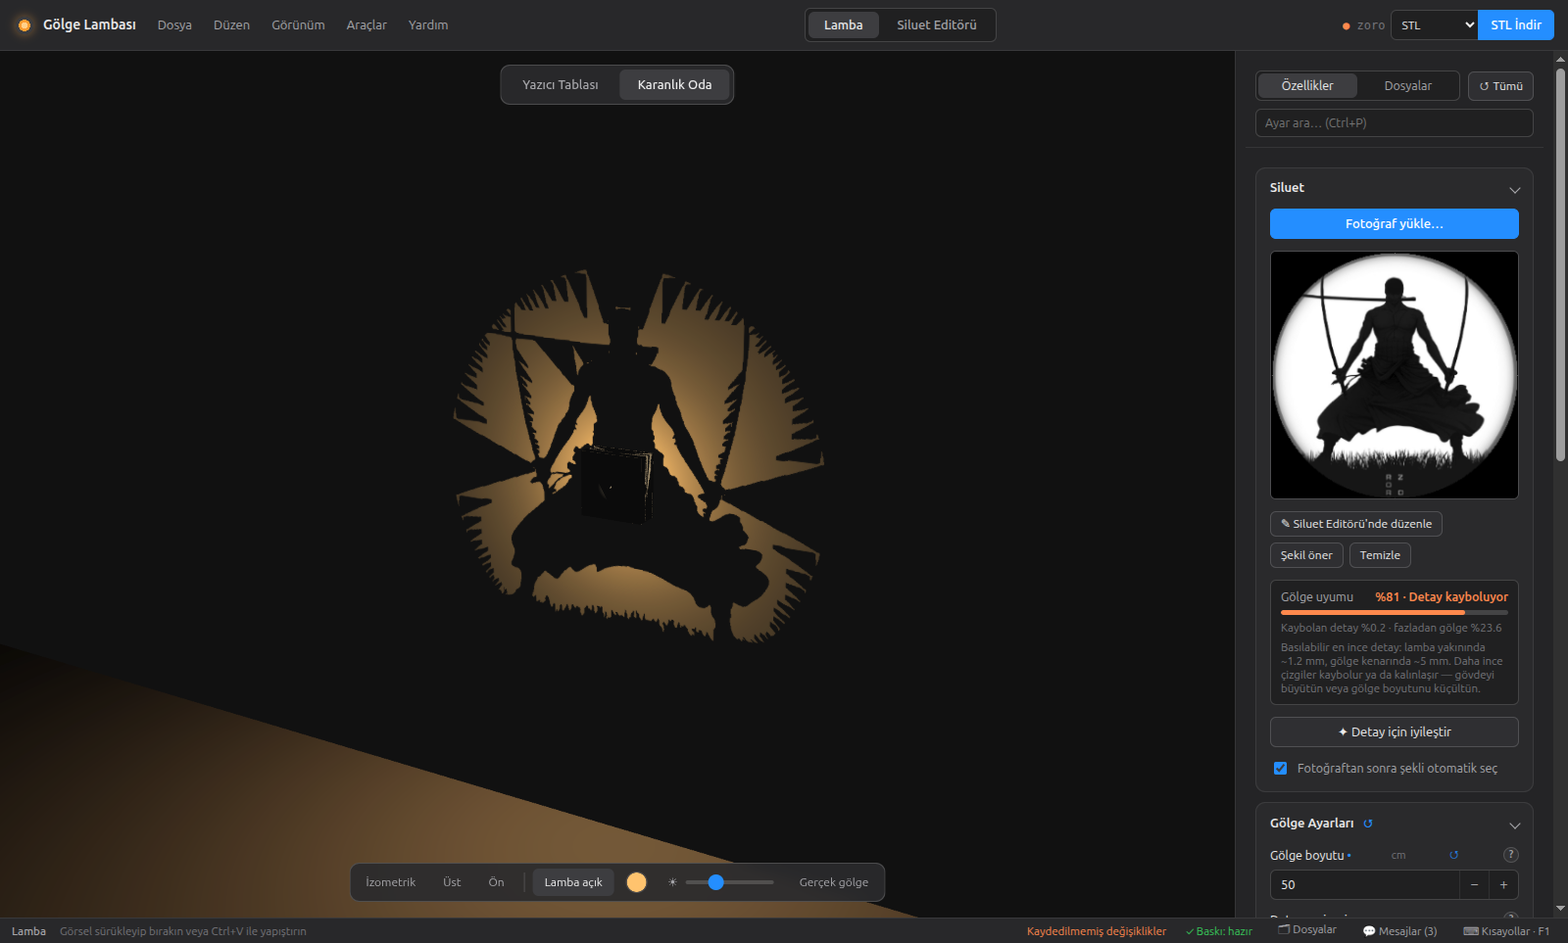
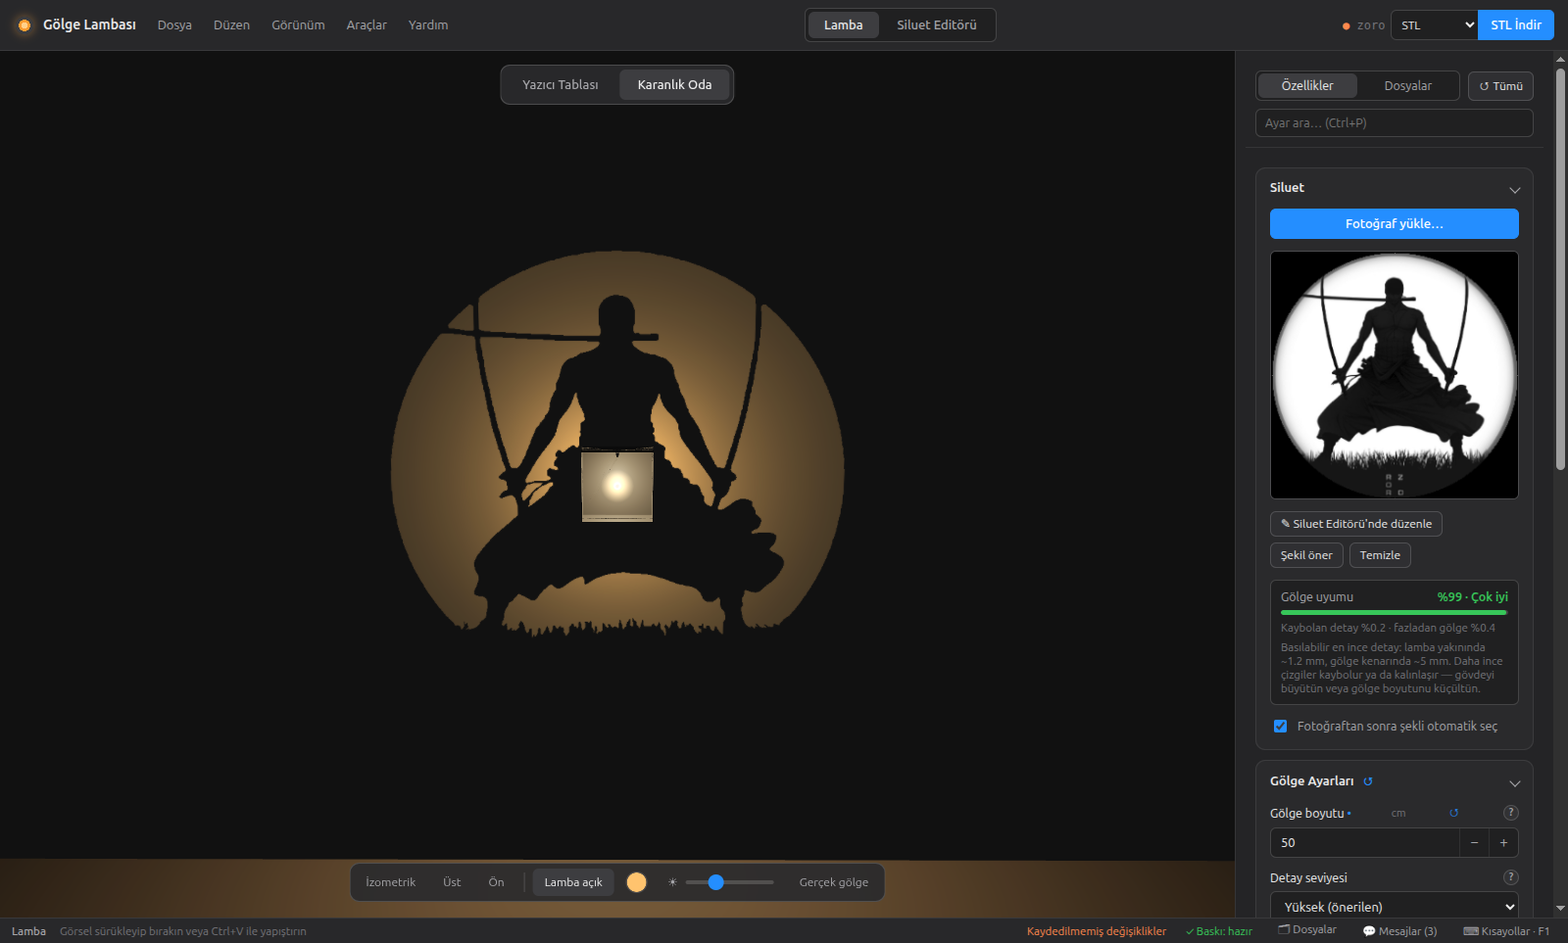
Print with slicer supports by default, hide light parts in previews, expand README
- Desteksiz baskı (support-free roofs) is now off by default: its roofs
  showed as saw teeth on large shadows (sample: 81 % -> 99 % match).
- Dark room never draws the light parts (cap, LED holder, tube), so only
  the printed body and the light show with an open front; on the bed
  they stay hidden unless Montaj parçaları is on.
- README: features, download/install, quick start, printing guide,
  screenshot gallery and troubleshooting; fresh screenshots.
- package.json: repository, homepage and bugs links.

diff --git a/renderer/src/main.js b/renderer/src/main.js
@@ -55,8 +55,8 @@
       { id: 'g-holder', label: 'Tüp tutucu yüksekliği', unit: 'mm', min: 4, max: 30, step: 1, value: 10, showIf: () => mount() === 'tube' },
       { id: 'g-mode', type: 'select', label: 'Baskı şekli', value: 'onepiece', options: [
         ['onepiece', 'Tek parça (gövde + taban dik basılır)'], ['flat', 'Düz paneller (basıp yapıştırılır)']] },
-      { id: 'g-supportfree', type: 'check', label: 'Desteksiz baskı (sarkan yerlerin altına 45° çatı)', value: true, showIf: () => $('g-mode').value === 'onepiece',
-        note: 'Dik basılan gövdede havaya basılacak yatay çıkıntı kalmaz; gölgede çok küçük üçgen dolgular oluşabilir.' },
+      { id: 'g-supportfree', type: 'check', label: 'Desteksiz baskı (sarkan yerlerin altına 45° çatı)', value: false, showIf: () => $('g-mode').value === 'onepiece',
+        note: 'Kapalıyken (varsayılan) gölge siluete birebir uyar; gövdeyi dilimleyicide destek açarak basın, destekler sonra sökülür. Açıkken dik basılan gövdede havaya basılacak yatay çıkıntı kalmaz, ama sarkan yerlerin altına eklenen çatılar duvarda büyür ve gölgenin uzak kenarında testere dişi gibi görünebilir.' },
       { id: 'g-chamfer', type: 'check', label: 'Panel kenarları 45° pahlı (köşeler temiz birleşir)', value: true, showIf: () => $('g-mode').value === 'flat' },
       { id: 'g-layer', type: 'check', label: '0,2 mm destek katmanı (kopuk parçaları köprüsüz tutar)', value: false, showIf: () => $('g-mode').value === 'flat' },
       { id: 'g-thickness', label: 'Duvar kalınlığı', unit: 'mm', min: 0.8, max: 5, step: 0.1, value: 1.6 },

diff --git a/renderer/src/geometry.js b/renderer/src/geometry.js
@@ -300,7 +300,8 @@
     let wallR = 60;           // aydınlanan duvar dokusunun yarı genişliği (cm)
     let floorBelowLamp = -25; // zemin en fazla lambanın altında bu yükseklikte (cm)
     // Montaj parçaları (LED kapağı + tüp tutucu halkası) tablada varsayılan olarak
-    // gizli: ilk açılışta kafa karıştırıyordu. Karanlık odada monte hâli hep görünür.
+    // gizli ("Montaj parçaları" gösterir). Karanlık odada hiç çizilmez: orada
+    // yalnızca basılan gövde ve ışığın kendisi görünür, lambanın önü açık kalır.
     let showLid = false;
     let showDims = true;
     let lightOn = true;
@@ -376,7 +377,7 @@
     function applyVisibility() {
       const capVis = (m) => !m.userData.isCap || showLid;
       bedLamp.children.forEach((m) => { m.visible = capVis(m); });
-      roomLamp.children.forEach((m) => { m.visible = true; });
+      roomLamp.children.forEach((m) => { m.visible = !m.userData.isCap; });
 
       const real = realShadow && lightOn;
       wall.material = real ? wallMatShadow : (lightOn ? wallMatOn : wallMatOff);
@@ -481,7 +482,8 @@
         geo.setIndex(new THREE.BufferAttribute(m.indices, 1));
         geo.computeVertexNormals();
         sharedGeos.push(geo);
-        const isCap = /^(cap|led-|tube-cap)/.test(m.name);
+        // Işık parçaları (kapak, LED yuvası, tüp, tüp tutucu) odada gizli.
+        const isCap = /^(cap|led-|tube-)/.test(m.name);
         const isGlass = m.name === 'tube-glass';
         const mesh = new THREE.Mesh(geo, isGlass ? glassMat : darkMat);
         if (isGlass) mesh.renderOrder = 5;

diff --git a/renderer/src/designer.js b/renderer/src/designer.js
@@ -207,7 +207,7 @@
         mode: val('g-mode', 'onepiece'),
         mount: val('g-mount', 'tube'),
         supportLayer: !!(document.getElementById('g-layer') || {}).checked,
-        supportFree: !!(document.getElementById('g-supportfree') || { checked: true }).checked,
+        supportFree: !!(document.getElementById('g-supportfree') || { checked: false }).checked,
         look: {
           ledColor: val('l-color', '#ffc46e'),
           brightness: num('l-bright', 100),

diff --git a/README.md b/README.md
@@ -4,9 +4,72 @@
 >
 > **AI agents / geliştiriciler:** start with [`CLAUDE.md`](CLAUDE.md) / [`AGENTS.md`](AGENTS.md); [`docs/README.md`](docs/README.md) maps every other doc (architecture, design rules, known issues, per-module APIs).
 
-Desktop app that turns a **photo into a wall-mounted shadow lamp**. It pulls the silhouette out of the photo, designs a lamp body (square, rectangle, cylinder, hexagon, star, flower, heart…) with the light in the middle, and computes the wall cutouts so that when the lamp is on, the silhouette appears on the wall as if drawn there. The result is **one STL file**, ready to print. No SVG step is needed. The interface is in Turkish.
+Desktop app that turns a **photo into a wall-mounted shadow lamp**. It pulls the silhouette out of the photo, designs a lamp body (square, rectangle, cylinder, hexagon, star, flower, heart…) with the light in the middle, and computes the wall cutouts so that when the lamp is on, the silhouette appears on the wall as if drawn there. The result is **one model file** (STL, 3MF, OBJ, FBX, PLY or GLB), ready to print. No SVG step is needed. The interface is in Turkish.
 
-![Portrait shadow in the dark-room view](screenshots/02-dark-room-shadow.png)
+![The lamp switched on in the dark-room view: the silhouette appears on the wall](screenshots/02-dark-room-shadow.png)
+
+**Contents:** [Features](#features) · [Download and install](#download-and-install) · [Quick start](#quick-start-5-minutes) · [Printing your lamp](#printing-your-lamp) · [Screenshots](#screenshots) · [Workflow in detail](#workflow) · [Troubleshooting](#troubleshooting) · [Project layout](#project-layout) · [Licence](#author-and-licence)
+
+## Features
+
+- **Photo → silhouette** in one click: quick (plain background), AI background removal, or a detailed portrait that keeps hair, eyes and beard.
+- **Any body shape:** square, rectangle, rounded rectangle, cylinder, polygon, star, flower, heart; with taper and adjustable depth.
+- **What you see is what you print:** the dark-room preview, the wall strip and the accuracy score all use the exact geometry that gets exported.
+- **Shadow match score (Gölge uyumu)** tells you how close the real shadow will be to your silhouette, and **Detay için iyileştir** tunes size, detail level and print mode for you.
+- **Print-ready meshes:** watertight, nothing floating, fits your printer bed (warns if not); one-piece upright print or flat glued panels.
+- **Built-in silhouette editor** (brushes, shapes, text, layers, symmetry, undo) and an **image converter** for logos and drawings.
+- **Exports** STL, 3MF, OBJ, FBX, PLY, GLB, plus SVG/PNG from the converter.
+
+## Download and install
+
+You need **[Node.js](https://nodejs.org/) 20 LTS or newer** and **Git** (or just download the ZIP). Works on Linux, Windows and macOS.
+
+```bash
+git clone https://github.com/kerim47/ShadowLightBox.git
+cd ShadowLightBox
+npm install
+npm start
+```
+
+No Git? Click **Code → Download ZIP** on GitHub, unzip it, open a terminal in that folder and run `npm install` then `npm start`.
+
+Want an installer instead? `npm run build:win`, `npm run build:mac` or `npm run build:linux` writes one into `dist/`.
+
+If `npm start` fails, see [Troubleshooting](#troubleshooting).
+
+## Quick start (5 minutes)
+
+1. **Open the sample.** On first launch a sample design is copied into your designs folder: **Dosya → Aç…** → `zoro`. (Or drag [`electron/samples/zoro.json`](electron/samples/zoro.json) onto the window.)
+2. **Look at it.** Switch between **Yazıcı Tablası** (printer bed, `Alt+1`) and **Karanlık Oda** (dark room, `Alt+2`). In the dark room the toolbar's **Ön** button shows the wall straight on.
+3. **Use your own photo.** **Fotoğraf yükle…** in the Inspector (or drag a photo onto the window), pick a method, place the silhouette, click **Yerleştirmeyi uygula**.
+4. **Check the score.** Aim for a green **Gölge uyumu** (≥ 90 %). If it is low, click **Detay için iyileştir**.
+5. **Download.** Choose the format next to the download button and click **İndir** (`Ctrl+E`). Files go to your **Downloads** folder.
+
+## Printing your lamp
+
+| Setting | Default | What to do |
+|---|---|---|
+| Baskı şekli (print mode) | Tek parça (one piece, upright) | Print upright with **supports enabled in your slicer** (Cura / PrusaSlicer / Bambu Studio; *tree* supports are easiest to remove). |
+| Desteksiz baskı (support-free) | **Off** | Turn on only for compact silhouettes. It adds small roofs under overhangs; far from the lamp they show as saw teeth on the wall. |
+| Düz paneller (flat panels) | – | For polygon bodies: each side prints flat without supports, then you glue them. Good for very fine detail. |
+| Duvar kalınlığı (wall) | 1.6 mm | Thicker is sturdier; the minimum is 0.8 mm. |
+| Tabla X / Y / Z | 256 mm | Set your printer's build volume; the bed view warns if the body doesn't fit. |
+
+- **Material:** opaque, dark PLA or PETG works best (white or translucent filament lets light through the walls).
+- **Light:** a small single-chip LED (1–3 W, warm white, ≥ 120°), see [Which light?](#which-light). Bulbs give blurry shadows.
+- **Light parts** (front cap / LED holder, tube holder) are hidden in the previews and left out of downloads by default. Show them on the bed with **Montaj parçaları** and include them in the download dialog if you want to print them too.
+- **Mounting:** the base plate goes against the wall; hang it on a screw through the keyhole. The picture appears on the wall around the lamp, **Gölge boyutu** sets its half-width.
+
+## Screenshots
+
+All taken with the bundled `zoro.json` sample and default settings.
+
+| | |
+|---|---|
+| ![Dark room, front view](screenshots/02-dark-room-shadow.png) | ![Open lamp body with the LED inside](screenshots/05-open-lamp.png) |
+| **Karanlık Oda:** shadow on the wall, 99 % match | **Open front:** only the printed body and the light |
+| ![Printer bed](screenshots/03-print-bed.png) | ![Silhouette editor](screenshots/04-silhouette-editor.png) |
+| **Yazıcı Tablası:** body on the bed with dimensions | **Siluet Editörü:** retouch the silhouette |
 
 ## Workflow
 
@@ -33,7 +96,7 @@ Desktop app that turns a **photo into a wall-mounted shadow lamp**. It pulls the
 - **File picker:** on the desktop app every "open file" uses an in-app picker (places, folders, filter, image preview, keyboard). The system GTK dialog crashed Electron on Linux (`GLib-GObject … no handler with id` → SIGTRAP), so it is never opened.
 - **One view.** Every setting is always visible in the Inspector (no simple/advanced mode); sections are collapsible and searchable (`Ctrl+P`).
 - **Printer bed:** Baskı Ayarları starts with **Tabla genişliği (X)**, **Tabla derinliği (Y)** and **Baskı yüksekliği (Z)**. The bed view draws that rectangle and warns when the body doesn't fit (either orientation). Old designs with a single bed size open as a square bed.
-- The small LED cap parts are hidden on the bed by default (toolbar **LED kapağı** shows them); they are still in the STL and always visible in the dark room.
+- The light parts (front cap, LED holder, tube holder) are hidden by default: the bed shows only the lamp body (toolbar **Montaj parçaları** shows them) and the dark room shows just the printed body and the light itself, with the front left open. They are left out of downloads unless you include them.
 - **Detail pipeline.** Silhouettes are processed at 2048 px. Small parts such as letters, twig tips and gaps between fingers are kept, and edges stay anti-aliased, so the wall grid resolves sub-pixel edges. Detail levels go up to "Çok yüksek" (≈650k cells).
 - **Gölge uyumu.** Shows how well the shadow the lamp will actually cast matches the silhouette (IoU), plus lost detail, extra shadow, and the finest printable detail near the lamp and at the shadow edge.
   - Why there is a limit: a feature on the wall shrinks by t = ρ/r on the lamp wall, and the printer can't print lines much thinner than ~0.8 mm.
@@ -97,8 +160,10 @@ The **Siluet Editörü** workspace (top bar) is a separate full-screen painting 
 - **One-piece mode** (default). The wall and the base plate form a single body, printed upright. The base plate has a keyhole for hanging on a screw. The front **cap** is a separate object in the same STL and is printed flat. It holds the LED facing the wall at the "Light z" position, with a cable hole through the centre.
 - **Flat-panel mode** (polygonal shapes only). One flat panel per side, plus the plate and cap, laid out on the bed. Panels print without supports; glue them together afterwards. Panel ends are chamfered at 45° by default, so the corners close cleanly. An optional 0.2 mm support layer under each panel holds loose parts without bridges.
 - The wall is meshed with marching squares into a **watertight** solid with smooth cutout edges (≈0.5–1 mm grid, finer where the image is magnified most).
-- **Support-free upright printing** (one-piece mode, on by default):
+- **Printing with supports** (one-piece mode, default): the shadow matches the silhouette exactly. The body prints upright, so **turn on supports in your slicer** (Cura, PrusaSlicer, Bambu Studio: "tree" supports work well); peel them off after printing.
+- **Support-free upright printing** (option *Desteksiz baskı*, off by default):
   - Overhangs steeper than 60° and unsupported spans longer than 12 mm get a small roof underneath, so the body prints without supports.
+  - The roofs are magnified on the wall: a large lit area far from the lamp gets saw-tooth edges (the sample design drops from 99 % to 81 % shadow match). Use it only for compact silhouettes.
   - Short bridges are left as they are.
   - Adjacent roofs are merged so the shadow doesn't get saw-teeth.
 - **Printability fixes:**
@@ -117,7 +182,7 @@ Shadow edges blur in proportion to the emitter size, so bulbs (E14/E27) and larg
 
 ## Tabs
 
-- **3B Önizleme**: a dark room with the lamp on the wall, the LED glowing inside and the silhouette cast on the wall. You can switch the lamp off to see the body in daylight, or hide the cap to look inside. Print settings and STL export are here too.
+- **3B Önizleme**: a dark room with the lamp on the wall, the LED glowing inside and the silhouette cast on the wall. You can switch the lamp off to see the body in daylight; the front is open so you can look inside. Print settings and STL export are here too.
 - **Gölge Tasarımı**: the silhouette (retouch it with the brush), the simulated shadow, shadow size and support-rib settings, and the unrolled wall strip.
 
 ## Shared geometry panel
@@ -146,11 +211,7 @@ A green "Saved" toast confirms successful writes for 5 seconds.
 
 Designs saved by the older box-only version (format v1, e.g. `zoro.json`) open as a rectangular body.
 
-## Try it with the sample
-
-The screenshots above were taken with the bundled sample design [`electron/samples/zoro.json`](electron/samples/zoro.json). To reproduce them, start the app and either open `zoro` from **Dosya → Aç…** (it is copied into the designs folder on first launch) or drag the JSON file onto the window. Then switch between **Yazıcı Tablası** / **Karanlık Oda** (`Alt+1` / `Alt+2`) and the **Siluet Editörü** (`Ctrl+2`).
-
-## Run it
+## Development
 
 Requires [Node.js](https://nodejs.org/) (LTS, e.g. 20.x).
 
@@ -160,17 +221,6 @@ npm start                  # launch the desktop app (runs Electron with --no-san
 npm run build:win          # produce a Windows installer in dist/
 npm test                   # geometry core tests (projection math, watertight meshes, printability rules)
 ```
-
-npm 11+ skips package install scripts by default. If `npm start` says Electron failed to install, run `node node_modules/electron/install.js` once.
-
-On some Linux distributions Electron stops with *"The SUID sandbox helper binary was found, but is not configured correctly"*. Fix it once with:
-
-```bash
-sudo chown root node_modules/electron/dist/chrome-sandbox
-sudo chmod 4755 node_modules/electron/dist/chrome-sandbox
-```
-
-You can also start it with `npx electron . --no-sandbox` for local use.
 
 The Windows installer registers `%APPDATA%\Shadow Box Designer\designs\` as the data folder. A bundled sample (`zoro.json`) is seeded into that folder on first launch — you can open it from the **Open…** dialog right away.
 
@@ -183,12 +233,23 @@ python3 -m http.server 8000
 
 In browser mode, Save / Save As / Open use `localStorage` instead of the filesystem. Desktop-only controls (AI method, "Klasörü göster") are hidden there.
 
+## Troubleshooting
+
+| Problem | Fix |
+|---|---|
+| `npm start` says Electron failed to install | npm 11+ skips install scripts. Run `node node_modules/electron/install.js` once. |
+| Linux: *"The SUID sandbox helper binary was found, but is not configured correctly"* | `sudo chown root node_modules/electron/dist/chrome-sandbox && sudo chmod 4755 node_modules/electron/dist/chrome-sandbox`, or start with `npx electron . --no-sandbox`. |
+| The shadow has saw teeth or dark wedges at the edge | **Baskı Ayarları → Desteksiz baskı** is on. Turn it off and print with slicer supports, or use flat panels. |
+| **Gölge uyumu** is low / fine lines disappear | Detail shrinks towards the shadow edge. Make the body bigger, the **Gölge boyutu** smaller, choose **Detay seviyesi → Çok yüksek**, or click **Detay için iyileştir**. |
+| The body doesn't fit the bed | Set **Tabla genişliği / derinliği / Baskı yüksekliği** to your printer, shrink the body, or switch to flat panels. |
+| AI background removal fails | The model (~170 MB) is downloaded on first use; check your internet connection. The app falls back to a smaller model, and *Quick* needs no model. |
+
 ## Project layout
 
 Standard Electron split: `electron/` for the Node side, `renderer/` for the browser-side app.
 
 ```
-shadowbox/
+ShadowLightBox/
 ├── package.json            npm scripts + electron-builder config
 ├── electron/
 │   ├── main.cjs            BrowserWindow + IPC (designs, AI background removal)

diff --git a/docs/modules/geometry.md b/docs/modules/geometry.md
@@ -24,7 +24,7 @@ geo.setCompareModel(THREE.Group | null); geo.setCompareOptions(o); geo.compareSt
 ## Scenes
 
 - **Bed:** `bedSpace` rotated so lamp `z` is world up; meshes scaled 0.1 (mm → cm). White material, floating parts red. Shadow mask plane `2R × 2R` under the bed; red dimension lines, green axes, bed plate with 20 mm grid (red edge if the body doesn't fit). Light parts (`/^(cap|led-|tube-cap|tube-holder)/`) hidden unless "Montaj parçaları".
-- **Room:** lamp coordinates = world (wall `z = 0`). Wall plane + shadow texture plane (`2·wallR`), floor, point light at `(0, 0, cz)` with glow sprite and bulb. Light off → daylight lighting. Real shadow → PCF soft shadow map, `autoUpdate = false`, `dirtyShadow()` on change, distance decay off.
+- **Room:** lamp coordinates = world (wall `z = 0`). Wall plane + shadow texture plane (`2·wallR`), floor, point light at `(0, 0, cz)` with glow sprite and bulb. Light parts (`/^(cap|led-|tube-)/`: front cap, LED holder, tube, tube holder) are never drawn here, so only the printed body and the light show and the front stays open; hidden meshes cast no shadow in "Gerçek gölge" either (they sit in front of or below the LED, so the wall shadow is unchanged). Light off → daylight lighting. Real shadow → PCF soft shadow map, `autoUpdate = false`, `dirtyShadow()` on change, distance decay off.
 - `applyLook(opts)`: LED colour/intensity, glow size, wall colours (the lit-wall material uses `convertSRGBToLinear()` + `toneMapped: false` so it matches the texture's dark exactly), shadow plane size, wall/floor scale (`wallR·10`), fog distance, floor height.
 
 ## Camera

diff --git a/docs/KNOWN_ISSUES.md b/docs/KNOWN_ISSUES.md
@@ -18,6 +18,7 @@ Each entry: symptom, cause, location, suggested fix. Remove an entry when you fi
 - **Symptom:** a wide lit shape far out (crescent at ρ ≈ 45 cm on a 15 cm cylinder) gets dark spikes along its outer edge.
 - **Cause:** physics, not a bug. A ~1 mm rim above the hole spans tens of cm and can't print upright without roofs; near the light the roofs are magnified ~50×.
 - **Where:** `wall_field.js` support-free pass.
+- **Mitigation:** `g-supportfree` is off by default (print upright with slicer supports); the sample `zoro.json` scores 99 % instead of 81 %.
 - **Possible improvement:** detect this case and warn ("Desteksiz baskı bu tasarımda uzak kenarları bozuyor"), or suggest slicer supports / a larger body. The optimizer already compares print modes.
 
 ## Performance
@@ -52,7 +53,8 @@ They differ slightly (periodic in s, return shape). Merging needs care: `stencil
 
 - `ModelExport.isLightPart`: `/^(cap|led-|tube-cap|tube-holder)/` (export dialog).
 - `geometry.js` bed view `isCap`: same set (hidden behind "Montaj parçaları").
-- `geometry.js` room view `isCap` and `compareStats`: `/^(cap|led-|tube-cap)/` (no `tube-holder`, on purpose: the holder sits on the base plate in the room view).
+- `geometry.js` room view `isCap`: `/^(cap|led-|tube-)/` (all light parts incl. the glass tube; hidden in the room).
+- `geometry.js` `compareStats`: `/^(cap|led-|tube-cap)/` (no `tube-holder`, on purpose: the holder sits on the base plate).
 - **Fix:** use `ModelExport.isLightPart` for the bed view; give the room/compare variant its own named helper with a comment.
 
 ## Coverage

diff --git a/screenshots/README.md b/screenshots/README.md
@@ -5,8 +5,9 @@
 | File | Shows |
 |---|---|
 | `01-photo-portrait.png` | photo window: detailed portrait silhouette (**older UI**) |
-| `02-dark-room-shadow.png` | Karanlık Oda: lamp on the wall and its shadow |
-| `03-print-bed.png` | Yazıcı Tablası: print layout with dimensions |
+| `02-dark-room-shadow.png` | Karanlık Oda, "Ön" camera: the shadow on the wall |
+| `03-print-bed.png` | Yazıcı Tablası: lamp body on the bed with dimensions |
 | `04-silhouette-editor.png` | Siluet Editörü: tools, footprint overlay, edit operations |
+| `05-open-lamp.png` | Karanlık Oda, "İzometrik" camera: open front, LED inside |
 
-Referenced from the root `README.md`. `02`–`04` show the current UI (menu bar, Inspector on the right) with the bundled sample `electron/samples/zoro.json`, captured at 1600×1000. `01` still shows the older UI (top-bar buttons, settings on the left); for the current layout read `renderer/index.html`. When the UI changes noticeably, retake them with the Electron capture harness (`docs/DESIGN_RULES.md` §9) and a throwaway `userData` folder, not with personal data in view.
+Referenced from the root `README.md`. `02`–`05` show the current UI with the bundled sample `electron/samples/zoro.json` and default settings, captured at 1600×1000. `01` still shows the older UI (top-bar buttons, settings on the left); for the current layout read `renderer/index.html`. When the UI changes noticeably, retake them with the Electron capture harness (`docs/DESIGN_RULES.md` §9) and a throwaway `userData` folder, not with personal data in view.

diff --git a/AGENTS.md b/AGENTS.md
@@ -123,7 +123,7 @@ docs/modules/*.md        Per-module API, state, callers, extension recipes
   - The printer can't print lines much thinner than about 0.8 mm (2 × 0.4 mm nozzle). So the finest printable shadow detail is about `0.8 mm · ρ / r`; it gets coarse at the shadow edge.
   - Bigger body or smaller shadow means more detail. `main.js` → `detailLimitHtml()` and `optimizeDetail()` use this.
 - **Penumbra:** blur ≈ `D · z_cut / (cz − z_cut)`, where `D` is the LED emitter size. Recommend single-chip LEDs (≤ 3 mm emitter), not bulbs.
-- **Support-free upright printing** (`supportFree`):
+- **Support-free upright printing** (`supportFree`, off by default; the default is upright with slicer supports):
   - Overhangs up to 60° from vertical, bridges up to 12 mm between two anchors, and cantilevers up to 2.5 mm print without supports.
   - Longer unsupported runs get a roof at the angle limit. This is checked on a raster with `Δz = Δs / tan(angle)`.
   - Roofs alter the shadow, so for very detailed art, flat panels + 0.2 mm layer (no roofs, no bridges) are usually better. The optimizer compares these options.
